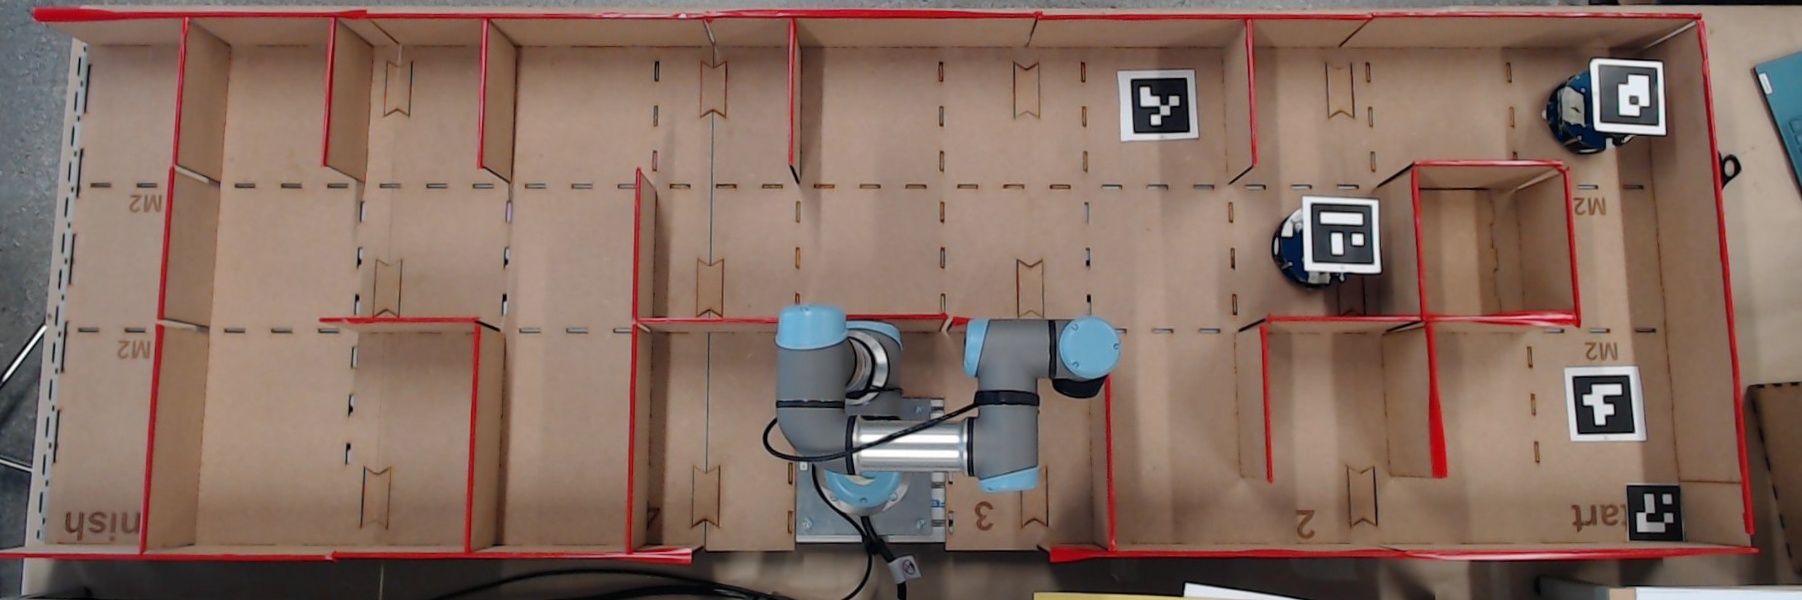
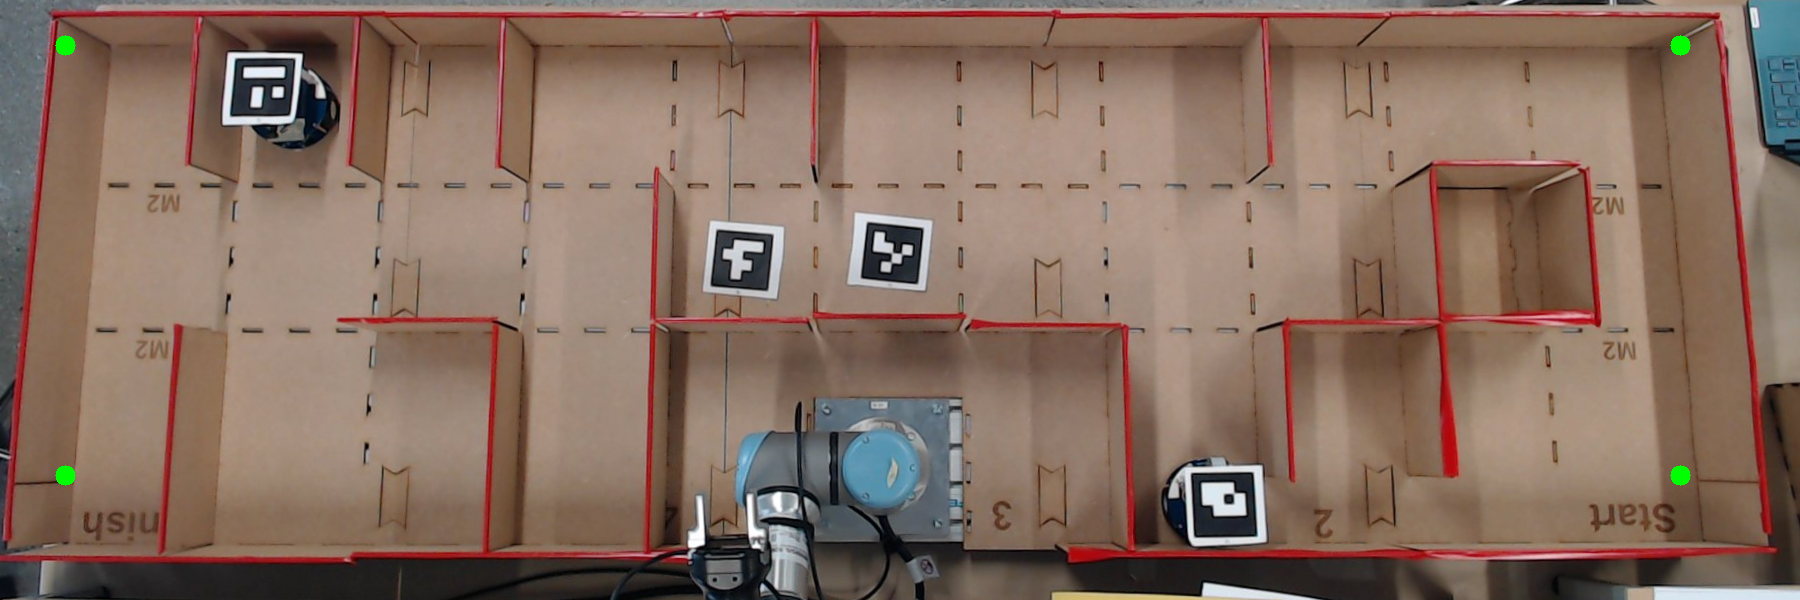
wip

diff --git a/alphabot_agent/alphabotlib/AlphaBot2.py b/alphabot_agent/alphabotlib/AlphaBot2.py
@@ -37,6 +37,9 @@ class AlphaBot2(object):
             raise Exception("Could not get robot name through env variable")
 
         self.xmpp_username = botn
+        self.target = None
+        self.other_target = None
+
         self.botN = botn.split("-")[-1]
 
         self.otherN = "1" if self.botN == "2" else "2"
@@ -750,7 +753,7 @@ class AlphaBot2(object):
             factor = 2.25
 
         x_pos = [int(300 / factor),int(900 / factor)]
-        y_pos = [int(68 / factor),int(1870 / factor)]
+        y_pos = [int(50 / factor),int(1850 / factor)]
 
         grid_top = int(45 / factor)
         grid_down = int(475 / factor)
@@ -767,11 +770,18 @@ class AlphaBot2(object):
         # Crop and rotate the image
         cropped = self.cropImage(img, rotation, x_pos, y_pos)
 
+        # Draw circles on the cropped image at grid_top, grid_left, grid_right, and grid_down
+        cv2.circle(cropped, (grid_left, grid_top), 10, (0, 255, 0), -1)  # Top-left
+        cv2.circle(cropped, (grid_right, grid_top), 10, (0, 255, 0), -1)  # Top-right
+        cv2.circle(cropped, (grid_left, grid_down), 10, (0, 255, 0), -1)  # Bottom-left
+        cv2.circle(cropped, (grid_right, grid_down), 10, (0, 255, 0), -1)  # Bottom-right
+
         cv2.imwrite("./alphabot_agent/frame_aha.png", cropped)
 
         def posToGrid(pos):
             grid_x = int((pos[0]-grid_left)/cell_width)
             grid_y = int((pos[1]-grid_top)/cell_height)
+            logger.info(f"Pos is : grid_x : {grid_x}, grid_y : {grid_y} grid_width : {grid_width} grid_height : {grid_height}")
             n = grid_x + grid_width * grid_y
             return n
 
@@ -865,19 +875,25 @@ class AlphaBot2(object):
             return cell, yaw_deg
 
         def detect_targets(img):
+            if self.target is None:
+                self.target = where_aruco(img, self.target_aruco_id)[0]
+                self.other_target = where_aruco(img, self.other_target_aruco_id)[0]
 
+        def detect_positions(img):
             robot = where_aruco(img, self.robot_aruco_id)
-            target = where_aruco(img, self.target_aruco_id)
-
             other_robot = where_aruco(img, self.other_aruco_id)
-            other_target = where_aruco(img, self.other_target_aruco_id)
+            return robot, other_robot
 
-            return robot, target, other_robot, other_target
 
+
+
+        detect_targets(cropped)
         labyrinth = find_labyrinth(cropped)
-        robot, target, other_robot, other_target = detect_targets(cropped)
+        robot, other_robot = detect_positions(cropped)
 
-        self.runMaze(robot, target, other_robot, other_target)
+        logger.info(f"Start is : {robot[0]} and other is : {other_robot[0]}")
+
+        self.runMaze(robot, self.target, other_robot, self.other_target)
 
 
 
@@ -894,8 +910,8 @@ class AlphaBot2(object):
         if self.labyrinth is None:
             logger.error("Can't run maze wihtout loading it first !")
             return
-        path_robo1 = pathfinder.get_path_from_maze(self.labyrinth, robot[0], target[0])
-        path_robo2 = pathfinder.get_path_from_maze(self.labyrinth, other_robot[0], other_target[0])
+        path_robo1 = pathfinder.get_path_from_maze(self.labyrinth, robot[0], target)
+        path_robo2 = pathfinder.get_path_from_maze(self.labyrinth, other_robot[0], other_target)
 
 
         pathfinder.problem_detect(path_robo1, path_robo2)

diff --git a/alphabot_agent/alphabotlib/Pathfinding.py b/alphabot_agent/alphabotlib/Pathfinding.py
@@ -2,7 +2,13 @@ import matplotlib.pyplot as plt
 from matplotlib.lines import Line2D
 import time
 import json
+import logging
 from PIL import Image, ImageDraw
+
+
+logger = logging.getLogger(__name__)
+logger.level = logging.INFO
+
 
 class Node:
         #Each node has connected nodes (conn), meaning an adjacent node is reachable
@@ -161,6 +167,9 @@ class Pathfinding:
         # We give priority to the longest path
         hasPrio = len(curr_path) > len(other_path)
 
+        logger.info(f"Path is : {curr_path}")
+        logger.info(f"Other path is : {other_path}")
+
         for i in range(0, len(curr_path)):
             # Bounding the index to other path length to avoid out of bound, but still check as if the robot was stopped at his target
             other_i = min(i, len(other_path) - margin - 1)
@@ -170,6 +179,7 @@ class Pathfinding:
 
             for j, n in enumerate(curr_indexes):
                 if n in other_indexes:
+                    logger.warning("We haave a collision")
                     # We have a collision :(
                     # We need to move the end of the path of the robot who has not the priority
                     if hasPrio:

diff --git a/alphabot_agent/__main__.py b/alphabot_agent/__main__.py
@@ -27,7 +27,7 @@ last_photo = None
 # Enable SPADE and XMPP specific logging
 for log_name in ["spade", "aioxmpp", "xmpp"]:
     log = logging.getLogger(log_name)
-    log.setLevel(logging.INFO)
+    log.setLevel(logging.ERROR)
     log.propagate = True
 
 
